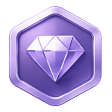
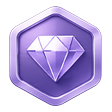
Use the real tier badges; put all 24 screens on the review page
Badges: all four exported from the sheet at 112x112 with transparency, scaled
so their ink lands at 93x100 - the proportion the frames actually render (the
cashback hero's Standard badge inks 47x51, the plan cards' 47x50), which is a
little wider than the sheet's own 0.855 aspect.

Standard existed nowhere in the repo, so the cashback hero had been faking it
with an inline SVG hexagon over a CSS gradient. That comes out. The other three
already existed but with an opaque WHITE background baked in - invisible on the
white plan cards, a white square anywhere else, which is why the blue hero
could not use them. CashbackOverview was drawing clip-path gradient hexagons
for every tier for the same reason; it now defaults to the real artwork per
plan, so any tier renders correctly on the blue card.

Review page: the nine screens that predate the Figma resync are on it, so all
24 have a comment box. The design pane is now the committed 1:1 reference PNG
from ref/ rather than a live Figma embed - it is the exact image sweep.sh
scores against, it needs no Figma login, and it does not reload 24 iframes; the
frame is still one click away per screen. Both panes are offset by the 76px of
chrome so they line up row for row, and each screen carries its current diff
score, written by sweep.sh into scores.json.

Note the sheet disagrees with the frames on two numbers: it labels the fourth
tier "Platinum Plan" at 25% where the app has "Diamond" at 30%, and Standard
[…]

diff --git a/design/review/index.html b/design/review/index.html
@@ -64,7 +64,8 @@
     border-radius: 10px;
     overflow: hidden;
   }
-  .frame iframe { display: block; width: 100%; border: 0; }
+  .frame iframe, .frame img { display: block; width: 100%; border: 0; }
+  .pane > .cap a { color: var(--sub); }
 
   /* overlay mode: stack the build on top of the design at 50% */
   .screen.overlay .cols { position: relative; }
@@ -91,6 +92,10 @@
   }
   textarea:focus { outline: 2px solid var(--blue); outline-offset: -1px; }
   .saved { font-size: 11px; color: #48a068; height: 14px; }
+  .score { margin-left: 8px; padding: 1px 7px; border-radius: 999px; color: #fff; }
+  .score[data-band='ok']   { background: #48a068; }
+  .score[data-band='near'] { background: #d89613; }
+  .score[data-band='off']  { background: #d64545; }
 </style>
 </head>
 <body>
@@ -107,7 +112,10 @@
 <main id="list"></main>
 
 <script>
-/* Left = the Figma frame via prototype embed (renders 1:1, no canvas chrome).
+/* Left = the committed 1:1 reference PNG in ref/ — the exact image sweep.sh
+   scores against, so what you see here is what the numbers describe. (It used
+   to be a live Figma embed, which needed you logged in and reloaded 24 iframes;
+   the frame is still one click away per screen.)
    Right = the built screen, deep-linked to the same state.
    Comments autosave to localStorage; "Copy all comments" puts them on the
    clipboard as markdown so they can be pasted straight back into the chat. */
@@ -134,7 +142,24 @@ const SCREENS = [
   { id: 'wd-change',     title: 'Withdraw — change currency',  node: '1402-7191',  h: 852,  route: '/earning/withdraw/amount?sheet=change' },
   { id: 'wd-summary',    title: 'Withdraw — summary',          node: '1402-7573',  h: 852,  route: '/earning/withdraw/amount?sheet=summary&amount=245&wallet=0X1C4212345678948Hf7f8' },
   { id: 'wd-submitted',  title: 'Withdraw — submitted',        node: '1404-7924',  h: 852,  route: '/earning/withdraw/amount?sheet=submitted&amount=245&wallet=0X1C4212345678948Hf7f8' },
+
+  // Screens that predate the Figma resync. ?tip / ?account are review states
+  // the frames capture; they are query params so the live defaults stay honest.
+  { id: 'home-active',      title: 'Home — active subscription', node: '552-3106',   h: 1614, route: '/?tip' },
+  { id: 'plans',            title: 'Choose plan',                node: '552-3126',   h: 1060, route: '/plans' },
+  { id: 'checkout',         title: 'Checkout',                   node: '552-3115',   h: 852,  route: '/checkout' },
+  { id: 'pay-currency',     title: 'Payment — pick currency',    node: '1284-3883',  h: 852,  route: '/payment/currency' },
+  { id: 'pay-network',      title: 'Payment — pick network',     node: '1292-4030',  h: 852,  route: '/payment/network' },
+  { id: 'pay-receive',      title: 'Payment — receive / QR',     node: '1102-10506', h: 852,  route: '/payment/receive' },
+  { id: 'cashback',         title: 'Cashback — dashboard',       node: '850-2053',   h: 1674, route: '/cashback' },
+  { id: 'cashback-history', title: 'Cashback — history sheet',   node: '1292-4273',  h: 852,  route: '/cashback/history' },
+  { id: 'broker',           title: 'Broker detail — pending',    node: '1292-5199',  h: 978,  route: '/cashback/broker/xm?account=submitted' },
 ];
+
+/* The 76px of Telegram/iOS chrome (32 status bar + 44 header) that every frame
+   includes and the webview does not render. The reference PNGs are pulled up by
+   it so the two panes line up row for row. */
+const CHROME = 76;
 
 const figmaSrc = (node) =>
   `https://embed.figma.com/proto/${FIGMA_KEY}/Trust-Forex?node-id=${node}`
@@ -155,16 +180,19 @@ for (const s of SCREENS) {
     <p class="meta">
       Figma <code>${s.node}</code>
       &nbsp;·&nbsp; build <code>${s.route}</code>
-      &nbsp;·&nbsp; frame height ${s.h}px
+      &nbsp;·&nbsp; frame ${s.h}px, capture ${s.h - CHROME}px
+      <span class="score" data-for="${s.id}"></span>
     </p>
     <div class="cols">
       <div class="pane pane--design">
-        <span class="cap">Design</span>
-        <div class="frame"><iframe loading="lazy" src="${figmaSrc(s.node)}" height="${s.h}"></iframe></div>
+        <span class="cap">Design <a href="${figmaSrc(s.node)}" target="_blank" rel="noreferrer">open in Figma</a></span>
+        <div class="frame" style="height:${s.h - CHROME}px">
+          <img loading="lazy" src="ref/${s.id}.png" alt="" style="margin-top:-${CHROME}px">
+        </div>
       </div>
       <div class="pane pane--build">
         <span class="cap">Build</span>
-        <div class="frame"><iframe loading="lazy" src="${appSrc(s.route)}" height="${s.h}"></iframe></div>
+        <div class="frame" style="height:${s.h - CHROME}px"><iframe loading="lazy" src="${appSrc(s.route)}" height="${s.h - CHROME}"></iframe></div>
       </div>
       <div class="notes">
         <label for="n-${s.id}">Differences / issues — ${s.title}</label>
@@ -210,6 +238,20 @@ document.getElementById('copyAll').addEventListener('click', async (e) => {
   }
   setTimeout(() => (e.target.textContent = 'Copy all comments'), 1500);
 });
+
+/* Written by sweep.sh. Absent, or stale for screens it did not run, is fine —
+   the badge just does not render. */
+fetch('scores.json')
+  .then((r) => (r.ok ? r.json() : {}))
+  .then((scores) => {
+    for (const el of document.querySelectorAll('.score')) {
+      const v = scores[el.dataset.for];
+      if (v === undefined) continue;
+      el.textContent = 'diff ' + v.toFixed(2);
+      el.dataset.band = v < 3 ? 'ok' : v < 6 ? 'near' : 'off';
+    }
+  })
+  .catch(() => {});
 
 document.getElementById('clearAll').addEventListener('click', () => {
   if (!confirm('Clear all comments?')) return;

diff --git a/src/design-system/components/CashbackOverview.tsx b/src/design-system/components/CashbackOverview.tsx
@@ -1,8 +1,20 @@
 import type { ReactNode } from 'react';
 import { Icon } from './Icon';
+import badgeStandardUrl from '../../assets/plans/badge-standard.png';
+import badgeSilverUrl from '../../assets/plans/badge-silver.png';
+import badgeGoldUrl from '../../assets/plans/badge-gold.png';
+import badgeDiamondUrl from '../../assets/plans/badge-diamond.png';
 import './CashbackOverview.css';
 
 export type CashbackPlan = 'standard' | 'silver' | 'gold' | 'diamond';
+
+/** The real tier artwork, all four exported from the same badge sheet. */
+const BADGES: Record<CashbackPlan, string> = {
+  standard: badgeStandardUrl,
+  silver: badgeSilverUrl,
+  gold: badgeGoldUrl,
+  diamond: badgeDiamondUrl,
+};
 
 // Tier stepper badges. In Figma these are small raster image chips (image
 // fills, unexportable here); the rendered design shows them as circular
@@ -56,7 +68,7 @@ export interface CashbackOverviewProps {
   planName?: string;
   planDuration?: string;
   rate?: string;
-  /** Optional real badge artwork for the current plan (defaults to a placeholder). */
+  /** Overrides the tier artwork; defaults to the badge for `plan`. */
   badge?: ReactNode;
   onCashbackHistory?: () => void;
   onUpgrade?: () => void;
@@ -117,8 +129,8 @@ export function CashbackOverview({
           </div>
           <div className="ds-cashback-row ds-cashback-current-body">
             <div className="ds-cashback-plan">
-              <span className={`ds-cashback-badge ds-cashback-badge-${plan}`} aria-hidden="true">
-                {badge}
+              <span className="ds-cashback-badge" aria-hidden="true">
+                {badge ?? <img src={BADGES[plan]} alt="" width={56} height={56} />}
               </span>
               <div className="ds-cashback-plan-text">
                 <span className="ds-cashback-plan-name">{planName ?? def.name}</span>

diff --git a/src/screens/cashback/Cashback.tsx b/src/screens/cashback/Cashback.tsx
@@ -26,26 +26,6 @@ const BANNER_ICON: Record<BrokerBanner['variant'], ReactNode> = {
   pending: <PendingGlyph />,
 };
 
-/* Standard-tier hero badge (982:1427, "State=Standard user"). No raster
- * export exists for it in this repo (only the Gold badge was ever
- * exported — see report), so it's reconstructed as an inline SVG: an
- * inset hexagon "face" (leaving the outer ds-cashback-badge-standard
- * gradient showing as a bevel ring) plus a person glyph, both colours
- * sampled from the reference (face #e2a06c → #7a4a28, glyph #f2c896). */
-const STANDARD_BADGE: ReactNode = (
-  <svg width={56} height={56} viewBox="0 0 56 56" aria-hidden="true">
-    <defs>
-      <linearGradient id="scr-cashback-std-badge-face" x1="0" y1="0" x2="1" y2="1">
-        <stop offset="0" stopColor="#f0b47e" />
-        <stop offset="0.45" stopColor="#976232" />
-        <stop offset="1" stopColor="#6b3f22" />
-      </linearGradient>
-    </defs>
-    <polygon points="28,4.2 48.4,16.1 48.4,39.9 28,51.8 7.6,39.9 7.6,16.1" fill="url(#scr-cashback-std-badge-face)" />
-    <circle cx="28" cy="24" r="6" fill="#f2c896" />
-    <path d="M17 40a11 11 0 0 1 22 0z" fill="#f2c896" />
-  </svg>
-);
 
 /* ---------------------------------------------------------------------------
  * Cashback hub — route `/cashback` (bottom-nav tab 2).
@@ -123,7 +103,6 @@ export default function Cashback({
         <CashbackOverview
           className="scr-cashback-hero"
           {...OVERVIEW}
-          badge={STANDARD_BADGE}
           onCashbackHistory={onCashbackHistory}
           onUpgrade={onUpgradePlan}
         />

diff --git a/src/design-system/components/CashbackOverview.css b/src/design-system/components/CashbackOverview.css
@@ -130,15 +130,13 @@
 /* hexagon plan badges (placeholders for raster artwork) */
 .ds-cashback-badge {
   flex: none;
-  display: inline-block;
+  display: inline-flex;
   width: 56px;
   height: 56px;
-  clip-path: polygon(50% 0%, 93% 25%, 93% 75%, 50% 100%, 7% 75%, 7% 25%);
 }
-.ds-cashback-badge-standard { background: linear-gradient(160deg, #b7bcc4, #7b828c); }
-.ds-cashback-badge-silver   { background: linear-gradient(160deg, #eceef1, #aab0b8); }
-.ds-cashback-badge-gold     { background: linear-gradient(160deg, #f7cd5a, #d89613); }
-.ds-cashback-badge-diamond  { background: linear-gradient(160deg, #ad92db, #6f58ae); }
+/* Was a clip-path hexagon over a per-tier gradient, standing in for artwork
+   that had not been exported. The real badges are transparent PNGs with their
+   own bevel and shadow, so both the mask and the fills come off. */
 
 /* tier progression stepper */
 .ds-cashback-tiers {

diff --git a/src/screens/cashback/Cashback.css b/src/screens/cashback/Cashback.css
@@ -195,15 +195,6 @@
      38-tall tier stepper. */
   gap: 23px;
 }
-.scr-cashback-hero .ds-cashback-badge-standard {
-  /* Grey DS placeholder swapped for the warm copper tone sampled from the
-     reference badge — a bright rim highlight (~#f6b982, x49-51 y172 of the
-     cropped reference) fading to a dark edge (~#5e3219, x52-53) — showing
-     through around the inset face polygon (STANDARD_BADGE, Cashback.tsx)
-     as a bevel ring. No raster asset for the Standard-tier badge exists in
-     this repo (see report). */
-  background: linear-gradient(160deg, #f6b982, #5e3219);
-}
 
 /* ---- "Partner brokers" card -------------------------------------------- */
 .scr-cashback-brokers {
